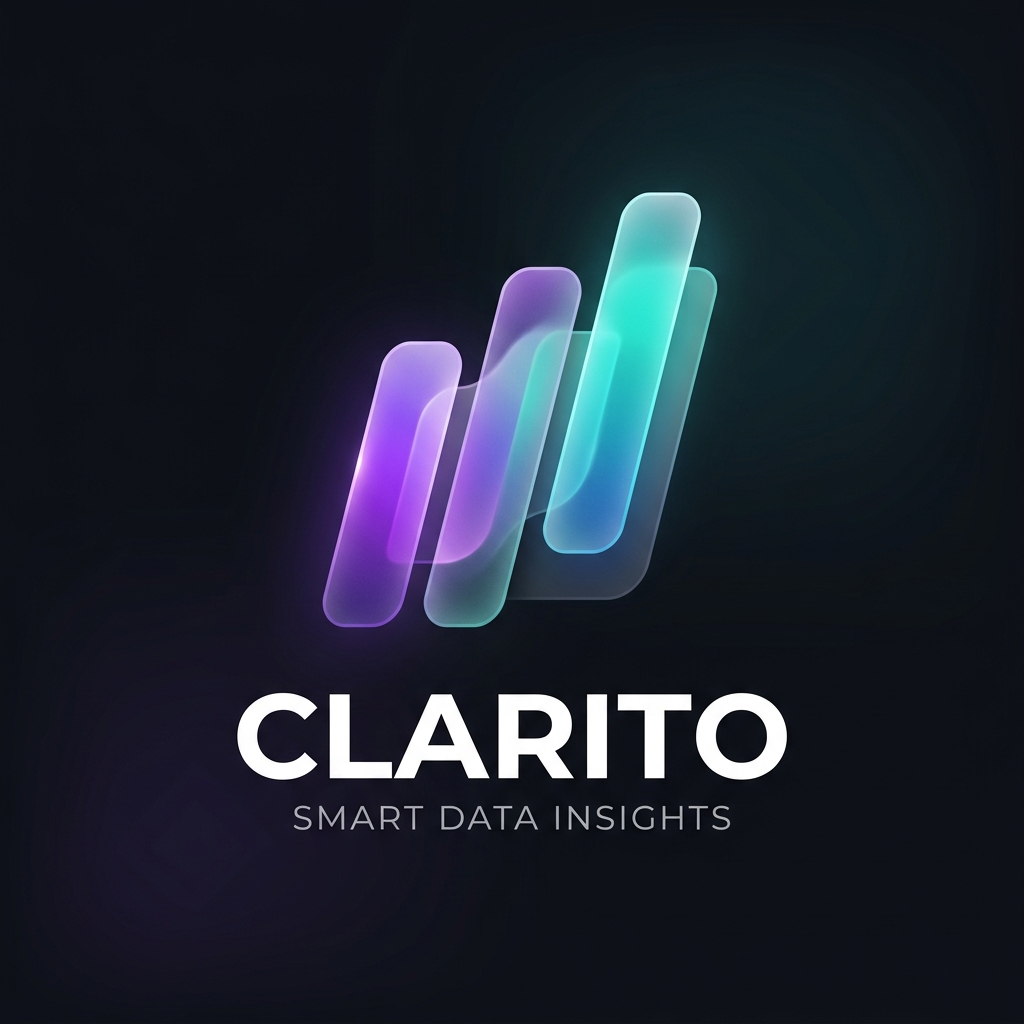
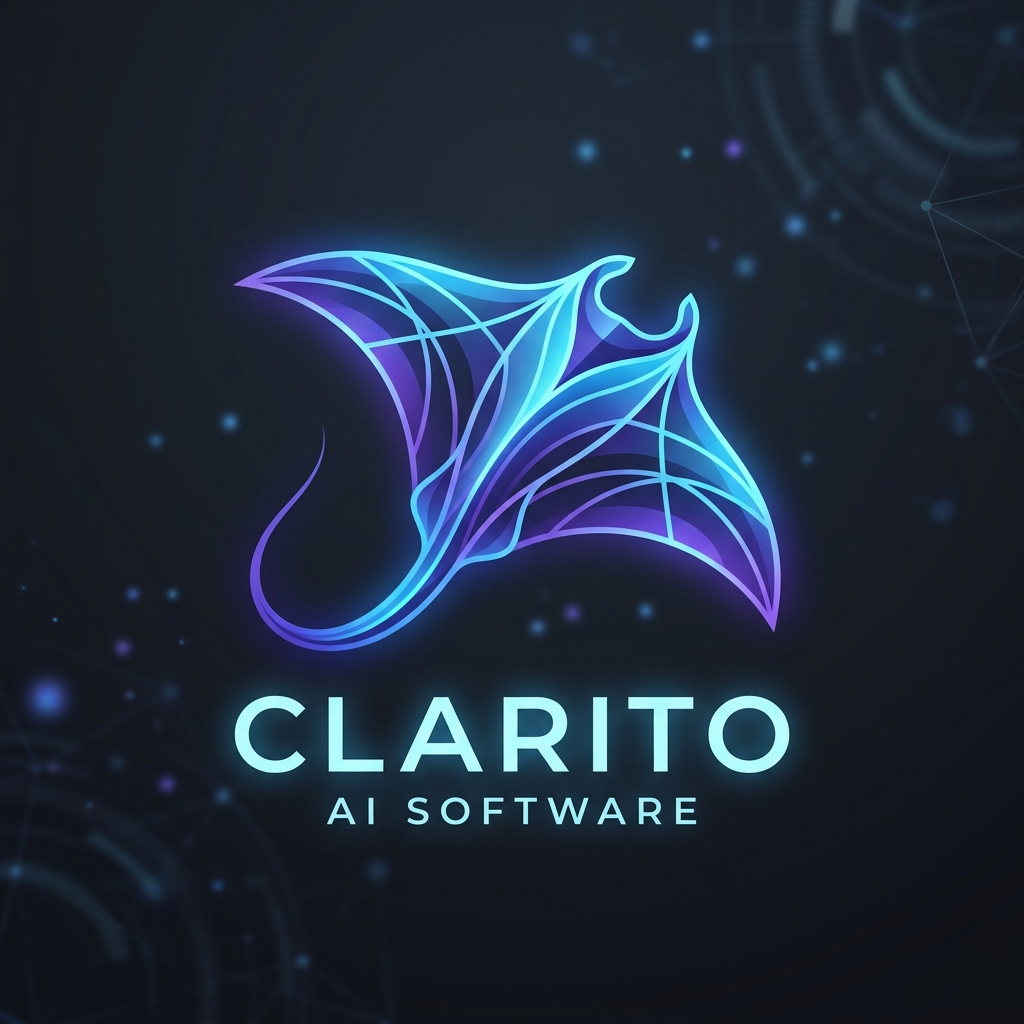
Manta Ray SVG Animation

diff --git a/src/components/landing/MantaBackground.tsx b/src/components/landing/MantaBackground.tsx
@@ -6,7 +6,8 @@ import { motion } from 'framer-motion';
 export default function MantaBackground() {
   return (
     <div className="absolute inset-0 overflow-hidden pointer-events-none z-0">
-      {/* Manta Ray Core Body */}
+      
+      {/* 1. Magical glowing aura that follows the manta ray */}
       <motion.div
         className="absolute top-1/4 left-1/4 w-[60vw] h-[40vw] bg-accent-primary/20 rounded-[100%] blur-[120px]"
         animate={{
@@ -15,58 +16,99 @@ export default function MantaBackground() {
           scale: [1, 1.2, 0.9, 1],
           rotate: [0, 15, -10, 0],
         }}
-        transition={{
-          duration: 20,
-          repeat: Infinity,
-          ease: "easeInOut"
-        }}
+        transition={{ duration: 20, repeat: Infinity, ease: "easeInOut" }}
       />
-      
-      {/* Right Wing (Blue/Teal) */}
       <motion.div
         className="absolute top-1/3 right-1/4 w-[40vw] h-[30vw] bg-status-teal/15 rounded-[100%] blur-[100px]"
         animate={{
           x: [0, -120, 50, 0],
           y: [0, 80, -40, 0],
           scale: [1, 1.3, 0.8, 1],
-          rotate: [0, -20, 10, 0],
         }}
-        transition={{
-          duration: 25,
-          repeat: Infinity,
-          ease: "easeInOut"
-        }}
+        transition={{ duration: 25, repeat: Infinity, ease: "easeInOut" }}
       />
 
-      {/* Left Wing (Purple/Pink) */}
+      {/* 2. The literal Manta Ray that floats across the screen (Like Gemini Logo) */}
       <motion.div
-        className="absolute bottom-1/4 left-1/3 w-[50vw] h-[35vw] bg-status-purple/15 rounded-[100%] blur-[140px]"
+        className="absolute z-10 opacity-60"
+        initial={{ x: '-20vw', y: '80vh', rotate: -15, scale: 0.5 }}
         animate={{
-          x: [0, 80, -100, 0],
-          y: [0, -60, 50, 0],
-          scale: [1, 1.1, 0.95, 1],
-          rotate: [0, 10, -15, 0],
+          x: ['-20vw', '120vw'],
+          y: ['80vh', '10vh', '40vh', '-20vh'],
+          rotate: [-15, 10, -5, 20],
+          scale: [0.5, 1.2, 0.8, 1.5]
         }}
         transition={{
-          duration: 22,
+          duration: 35,
           repeat: Infinity,
-          ease: "easeInOut"
+          ease: "easeInOut",
+          repeatType: "loop"
         }}
-      />
+      >
+        <svg 
+          width="200" height="200" viewBox="0 0 100 100" 
+          fill="none" xmlns="http://www.w3.org/2000/svg"
+          className="drop-shadow-[0_0_30px_rgba(45,212,191,0.8)] animate-pulse"
+        >
+          {/* Manta Ray elegant path */}
+          <path 
+            d="M50 10 C 60 40, 90 50, 95 60 C 90 65, 70 70, 50 90 C 30 70, 10 65, 5 60 C 10 50, 40 40, 50 10 Z" 
+            fill="url(#manta-gradient)"
+            fillOpacity="0.8"
+          />
+          {/* Manta Tail */}
+          <path 
+            d="M50 90 C 50 95, 48 110, 50 120" 
+            stroke="url(#manta-gradient)" 
+            strokeWidth="2" 
+            strokeLinecap="round"
+          />
+          <defs>
+            <linearGradient id="manta-gradient" x1="50" y1="10" x2="50" y2="90" gradientUnits="userSpaceOnUse">
+              <stop stopColor="#818CF8" />
+              <stop offset="0.5" stopColor="#2DD4BF" />
+              <stop offset="1" stopColor="#A78BFA" stopOpacity="0" />
+            </linearGradient>
+          </defs>
+        </svg>
+      </motion.div>
 
-      {/* Glowing Core / Eye of the Manta */}
+      {/* 3. A second, smaller manta ray swimming in the background */}
       <motion.div
-        className="absolute top-1/2 left-1/2 -translate-x-1/2 -translate-y-1/2 w-[20vw] h-[20vw] bg-white/5 rounded-full blur-[80px]"
+        className="absolute z-0 opacity-30"
+        initial={{ x: '120vw', y: '20vh', rotate: 210, scale: 0.3 }}
         animate={{
-          scale: [1, 1.5, 1],
-          opacity: [0.3, 0.6, 0.3],
+          x: ['120vw', '-20vw'],
+          y: ['20vh', '60vh', '10vh', '80vh'],
+          rotate: [210, 180, 220, 190]
         }}
         transition={{
-          duration: 8,
+          duration: 45,
           repeat: Infinity,
-          ease: "easeInOut"
+          ease: "easeInOut",
+          repeatType: "loop",
+          delay: 15
         }}
-      />
+      >
+        <svg 
+          width="120" height="120" viewBox="0 0 100 100" 
+          fill="none" xmlns="http://www.w3.org/2000/svg"
+          className="drop-shadow-[0_0_20px_rgba(167,139,250,0.6)]"
+        >
+          <path 
+            d="M50 10 C 60 40, 90 50, 95 60 C 90 65, 70 70, 50 90 C 30 70, 10 65, 5 60 C 10 50, 40 40, 50 10 Z" 
+            fill="url(#manta-gradient-2)"
+            fillOpacity="0.6"
+          />
+          <defs>
+            <linearGradient id="manta-gradient-2" x1="50" y1="10" x2="50" y2="90" gradientUnits="userSpaceOnUse">
+              <stop stopColor="#A78BFA" />
+              <stop offset="1" stopColor="#2DD4BF" stopOpacity="0" />
+            </linearGradient>
+          </defs>
+        </svg>
+      </motion.div>
+
     </div>
   );
 }